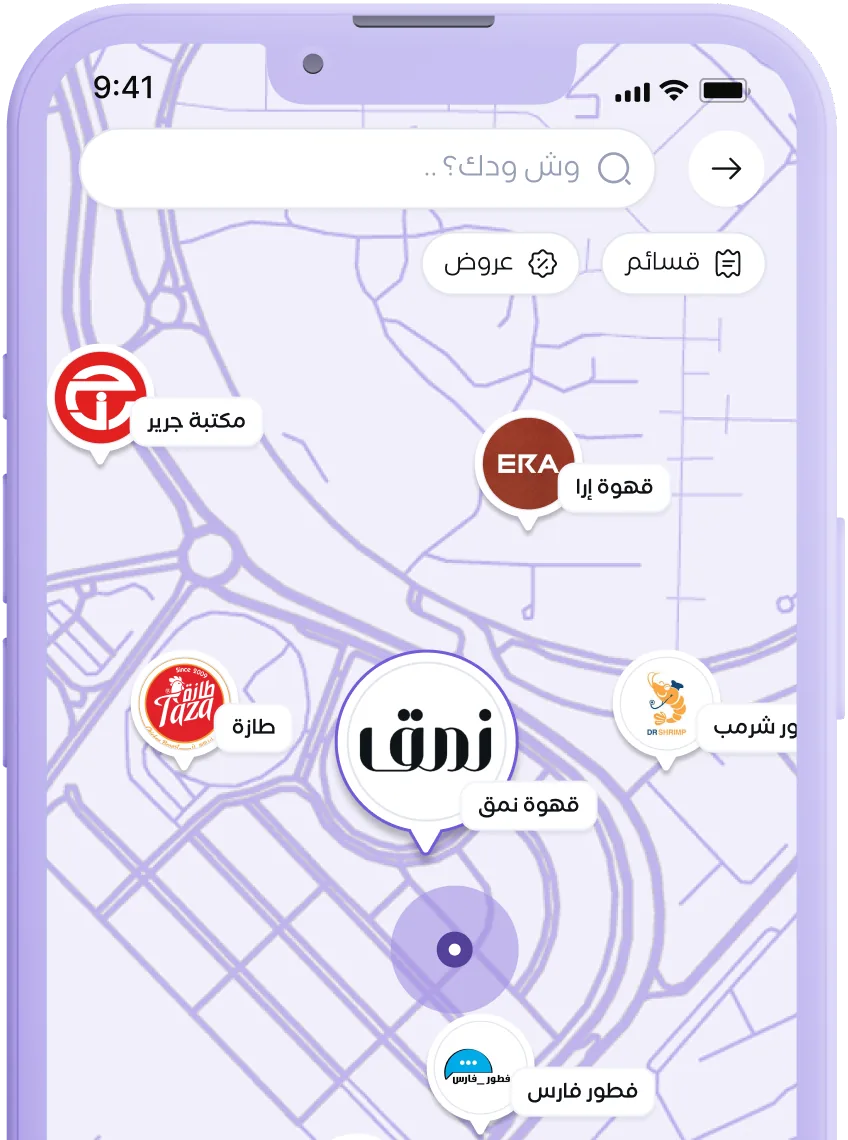
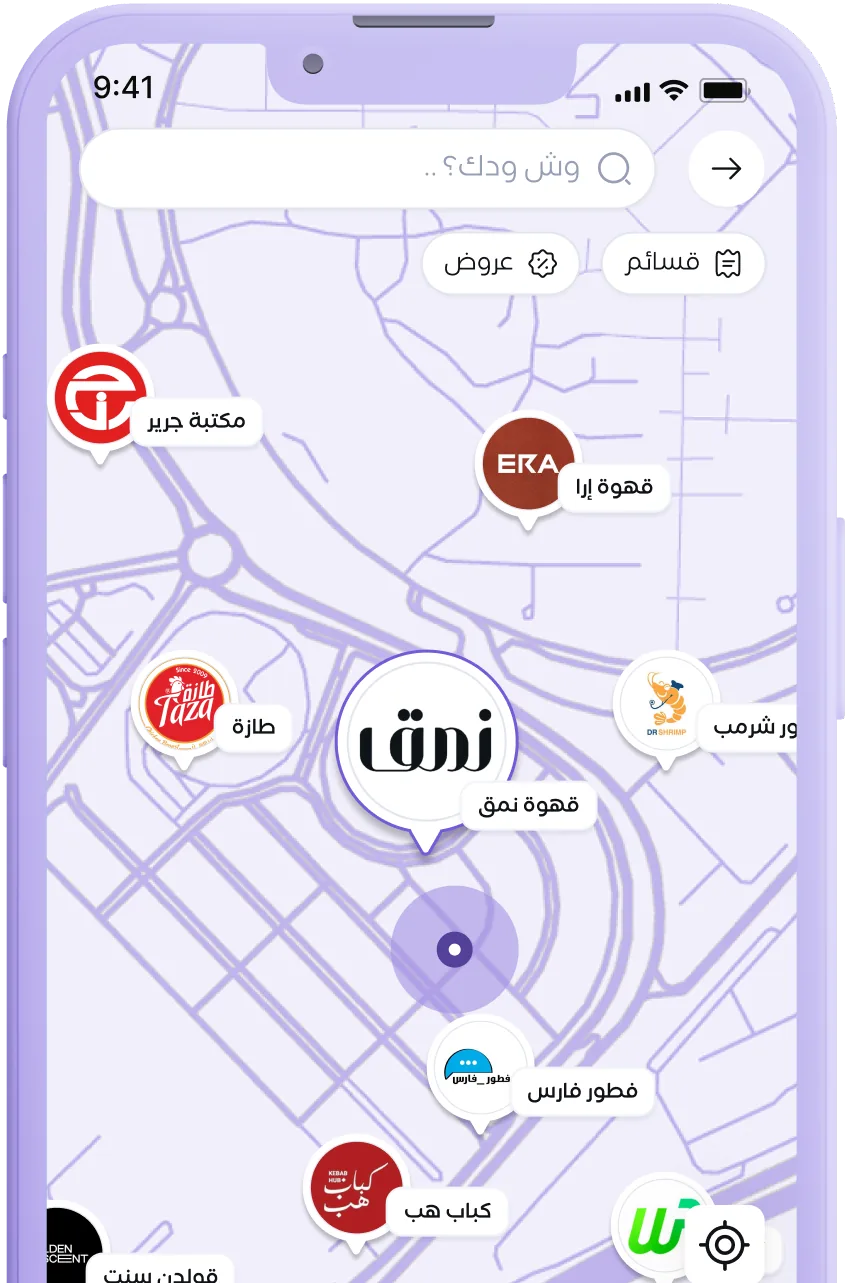
feat(benefits): bigger phone on the first card, top three quarters in view
The asset now keeps the top three quarters of the phone (VISIBLE = 3/4 in
build-phone-mockup.mjs; 848 x 1283, 65 kB) and the card fits it
bottom-centred into a box that is a share of the card's height as well as
its width (56% x 72% on desktop; 60% x 64% capped at 240 px when stacked,
with a 500 px minimum card height), so it scales with the card and stays
clear of the copy on the short 1024 x 760 cards. Drawn size 239 x 362 px at
1440 x 900 (was 222 x 298), 188 x 284 at 1024 x 760, 198 x 300 stacked.

Verified in both locales at 1440 x 900, 1024 x 760 and 390 x 844: box
centred with its bottom on the card's edge, box dimensions as specified,
copy 137 px above the phone at 1440 x 900 and 52 px at 1024 x 760 in
English, mirror equal to its twin, hand-over, landing and CLS unchanged.

diff --git a/components/ui/BenefitCard.tsx b/components/ui/BenefitCard.tsx
@@ -43,8 +43,8 @@ export function BenefitCard({ tone, title, body, slot, art, flipId, mode }: Prop
       data-flip-id={flipId}
       className={cn(
         'benefit-card relative overflow-hidden rounded-card text-ink',
-        // stacked, a phone card holds the copy plus the visible two thirds of a 200px phone
-        phone ? 'min-h-[460px]' : 'min-h-[300px]',
+        // stacked, a phone card holds the copy plus a phone box 60% of its own height
+        phone ? 'min-h-[500px]' : 'min-h-[300px]',
         TONE_CLASS[tone],
       )}
     >
@@ -75,15 +75,17 @@ export function BenefitCard({ tone, title, body, slot, art, flipId, mode }: Prop
       </div>
       {/* The 3D stills are transparent WebPs with their contact shadow baked in,
           so they sit straight on the card fill; the placeholder keeps its tint.
-          A phone is already cropped to its top two thirds (npm run render:phone),
-          so anchoring it on the bottom edge shows exactly that; the card's
-          rounded corners stay clear of it, and below lg it is capped in px
-          because a stacked card can be far wider than a phone. */}
+          A phone is already cropped to its top three quarters (npm run
+          render:phone) and fits bottom-centred into a box that is a share of
+          the card's height as well as its width, so it scales with the card and
+          stays clear of the copy on short cards; the rounded corners never
+          reach it, and below lg the box is capped in px because a stacked card
+          can be far wider than a phone. */}
       <div
         data-card-inner
         className={
           phone
-            ? 'absolute inset-x-0 bottom-0 mx-auto w-[56%] max-w-[200px] lg:w-[64%] lg:max-w-none'
+            ? 'absolute inset-x-0 bottom-0 mx-auto h-[60%] w-[64%] max-w-[240px] lg:h-[56%] lg:w-[72%] lg:max-w-none'
             : 'absolute end-0 bottom-0 w-[64%]'
         }
       >
@@ -93,8 +95,12 @@ export function BenefitCard({ tone, title, body, slot, art, flipId, mode }: Prop
           width={art?.width ?? 210}
           height={art?.height ?? 170}
           src={art?.src}
-          sizes={phone ? '(min-width: 1024px) 222px, 200px' : '(min-width: 1024px) 280px, 64vw'}
-          className={cn('rounded-none', !art && 'rounded-ss-card border-0 bg-ink/5 text-ink')}
+          sizes={phone ? '(min-width: 1024px) 250px, 240px' : '(min-width: 1024px) 280px, 64vw'}
+          className={cn(
+            'rounded-none',
+            phone && 'h-full w-full object-contain object-bottom',
+            !art && 'rounded-ss-card border-0 bg-ink/5 text-ink',
+          )}
         />
       </div>
     </article>

diff --git a/lib/art.ts b/lib/art.ts
@@ -62,8 +62,8 @@ export const TILE_MOTION: Partial<Record<HeroTileId, TileMotion>> = {
 
 /**
  * What a benefit card shows at its foot: a 3D still sitting at the inline end,
- * or a phone standing centred on the bottom edge with its top two thirds in
- * view (the asset is already cropped to that; BenefitCard only anchors it).
+ * or a phone standing centred on the bottom edge with its top three quarters
+ * in view (the asset is already cropped to that; BenefitCard fits it in a box).
  */
 export type BenefitArt = Art & { kind: 'still' | 'phone' };
 
@@ -81,10 +81,10 @@ export const ART = {
     // mockup "Matte iPhone Mockups - 2021 Updated" (node 55977:6896: the matte
     // iPhone 13 template with the WalaOne map screen placed in it), built by
     // `npm run render:phone`: page background and shadow cut away, the body
-    // recoloured to --color-phone-frame, top two thirds kept. Attribute the
+    // recoloured to --color-phone-frame, top three quarters kept. Attribute the
     // community file per its licence before launch.
     cards: [
-      { kind: 'phone', src: '/mockups/points-phone.webp', width: 848, height: 1140 },
+      { kind: 'phone', src: '/mockups/points-phone.webp', width: 848, height: 1283 },
       { kind: 'still', ...ill('choices', 420, 340) },
       { kind: 'still', ...ill('rate', 420, 340) },
     ] satisfies readonly BenefitArt[],

diff --git a/README.md b/README.md
@@ -32,7 +32,7 @@ On the production build (`next build && next start`) with headless Chromium, in 
 
 - Hero pin lasts exactly one viewport; at the unpin scroll the three hero cards and their grid twins report identical rectangles in Arabic and rectangles within 0.5 px in English, where Figtree’s fractional line heights put the grid on a half pixel (see `MOTION.md` for the mechanism); at the 0.42 handover the first card's clipped square reports tile 1's rectangle in both locales, including after a resize mid-pin; at p 0.72 the three mirror cards report equal-width clipped rectangles stacked and centred on the viewport.
 - Benefits is one viewport tall on desktop with the section rhythm as its padding: three cards side by side whose height is the section's content box (647 px at 1440 × 900, 507 px at 1024 × 760, 347 px wide from the 1116 px content container), the mirror cards the same size as their twins, the heading present for assistive tech at 1 × 1 px; below 1024 the three cards stack at their 300 px minimum and the section is sized by its content.
-- The phone on the first Benefits card: its box is centred on the card (0 px off) with its bottom on the card's bottom edge, 64 % of the card wide on desktop (222 px at 1440 × 900, 202 px at 1024 × 760) and 198 px on a 354 px stacked card, its height the asset's 1140 / 848 of that (the top two thirds of the phone); the body copy ends 200 px above it at 1440 × 900; the mirror card and its phone box equal their grid twins; the `next/image` request is answered 200 as AVIF; alt text present in both locales; the stacked card is 460 px; the pin's hand-over, landing and zero layout shift are unchanged.
+- The phone on the first Benefits card: its box is centred on the card (0 px off) with its bottom on the card's bottom edge; on desktop the box is 56 % of the card's height and 72 % of its width and the phone fits it bottom-centred, so it draws 239 × 362 px at 1440 × 900 and 188 × 284 px at 1024 × 760 (limited by height), and 198 × 300 px on a 354 × 500 px stacked card; the body copy ends 137 px above it at 1440 × 900 and 52 px above it at 1024 × 760 in English; the mirror card and its phone box equal their grid twins; the `next/image` request is answered 200 as AVIF; alt text present in both locales; the stacked card is 500 px; the pin's hand-over, landing and zero layout shift are unchanged.
 - Tile hover: the inner surface reports `translate: 0px -18px`, illustration opacity 0, label opacity 1 and z-index 10 after 500 ms; from p 0.06 the tiles report `pointer-events: none`. Every sector name sits on one line inside its tile in both locales at 1440 × 900, 1920 × 1080 and 390 × 844 (the label is 12 % of the tile width, container-query units). Tile 1 cross-fades to the WO coin Lottie instead of its label: on hover the motion box reports opacity 1 with the label and the still at 0 and the SVG frames advance; on leave the still is back and the playhead stops; the file is fetched once per page. With reduced motion emulated the tile shows its label and the file is never requested; on an iPhone 13 profile (no hover) the label sits under the still and the file is never requested.
 - Header and scroll hint keep their on-dark tones through the pinned purple surface and switch at p 0.62 (`data-hero-tone`), switching back when scrolling up.
 - Layout Shift API total **0.0000** in all four configurations, including through the pin. The two shifts that existed and were removed: the Arabic font swap (page is now visibility-gated until fonts arrive, 1 s timeout) and the illustration collapse (now transform-only).
@@ -63,7 +63,7 @@ Every former `ImageSlot` placeholder is filled; the component stays so a slot ca
 
 **App screenshot** (`components/ui/AppMockup.tsx`) is the real WalaOne home screen inside a CSS phone frame: the two captures supplied by design (`Home - WO - AR` and `Home - WO - EN`, 750 px wide) live as WebP in `public/app/` and `APP_SCREEN` in `lib/art.ts` picks one per locale; the alt is the slot title. The captures have no status bar, so the frame's notch pill overlaps only the purple header.
 
-**Phone mockup** (`public/mockups/points-phone.webp`) stands at the foot of the first Benefits card: the Figma community mockup "Matte iPhone Mockups - 2021 Updated" (node 55977:6896, the matte iPhone 13 template with the WalaOne map screen placed in it). Figma's PNG export bakes the page background and the drop shadow in, so `npm run render:phone` (`scripts/render/build-phone-mockup.mjs`) cuts the phone out with the template's own silhouette path (kept with the screen mask in `scripts/render/src/phone-mockup.json`, taken from the SVG export), recolours the body — the path the template names "[Change this color]" — from light blue to `--color-phone-frame` in OKLab so the matte shading and the neutral speaker and camera details survive, keeps the top two thirds, which is all the card shows, and writes the WebP (848 × 1140, 56 kB). The script's input is the node's 2× PNG export at `.render/figma/phone-mockup@2x.png` (git-ignored; re-export the node when it changes). `ART.benefits.cards` marks the entry `kind: 'phone'` and `BenefitCard` anchors it centred on the card's bottom edge (64 % of the card wide on desktop, capped at 200 px when stacked, with a 460 px minimum card height). Attribute the community file per its licence before launch.
+**Phone mockup** (`public/mockups/points-phone.webp`) stands at the foot of the first Benefits card: the Figma community mockup "Matte iPhone Mockups - 2021 Updated" (node 55977:6896, the matte iPhone 13 template with the WalaOne map screen placed in it). Figma's PNG export bakes the page background and the drop shadow in, so `npm run render:phone` (`scripts/render/build-phone-mockup.mjs`) cuts the phone out with the template's own silhouette path (kept with the screen mask in `scripts/render/src/phone-mockup.json`, taken from the SVG export), recolours the body — the path the template names "[Change this color]" — from light blue to `--color-phone-frame` in OKLab so the matte shading and the neutral speaker and camera details survive, keeps the top three quarters, which is all the card shows, and writes the WebP (848 × 1283, 65 kB). The script's input is the node's 2× PNG export at `.render/figma/phone-mockup@2x.png` (git-ignored; re-export the node when it changes). `ART.benefits.cards` marks the entry `kind: 'phone'` and `BenefitCard` fits it bottom-centred into a box 56 % of the card's height and up to 72 % of its width on desktop (60 % and 64 %, capped at 240 px, when stacked, with a 500 px minimum card height), so the phone scales with the card and stays clear of the copy. Attribute the community file per its licence before launch.
 
 **Merchant and scheme logos** (`public/brands/`, `public/payment/`) are SVGs from Wikimedia Commons (public-domain geometry; trademarks apply). The ten merchants are a sample across the six sectors, not a confirmed partner list: replace the entries in `BRANDS` before launch and the footer's draft note goes with them. mada, Visa and the Mastercard circles (as the generic credit card) sit on the payment step.
 
